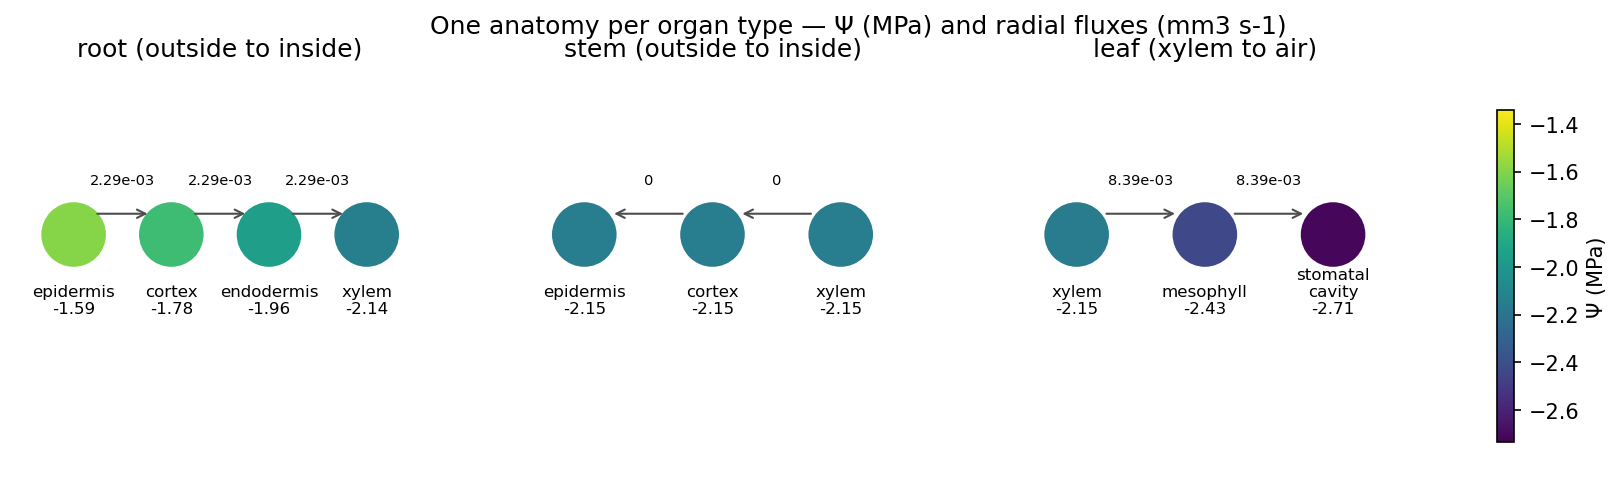
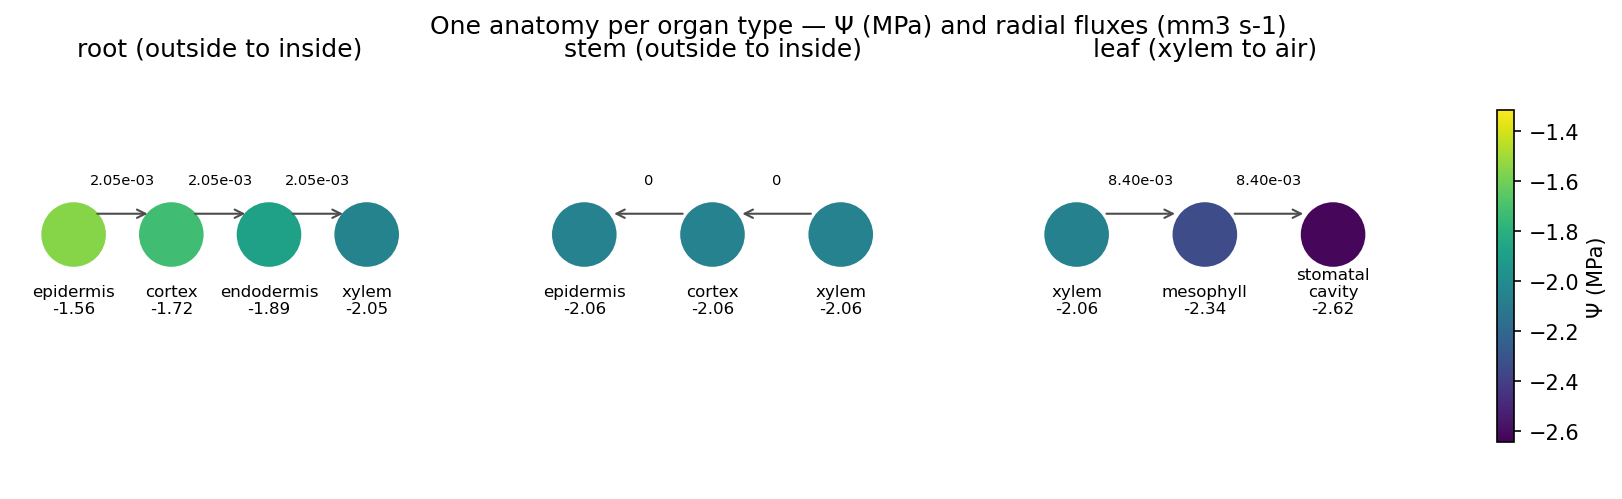
SPAC example: a second lateral on the pivot; the soil ΔΨ behind the SubOrgan and Compartment side views

diff --git a/examples/soil_plant_atmosphere/plotting.py b/examples/soil_plant_atmosphere/plotting.py
@@ -1,8 +1,10 @@
 """
 Plots of the example's DataStructures and of the converged water potentials on them (matplotlib, PNG files).
 
-    plant_segments      the plants at SubOrgan scale (side view, or one planting row): segments coloured by xylem Ψ
-    plant_anatomy       every Compartment of every segment (side view, or one planting row), coloured by Ψ
+    plant_segments      the plants at SubOrgan scale (side view, or one planting row): segments coloured by xylem Ψ,
+                        the soil's ΔΨ (Ψ minus its layer mean) behind them on a diverging scale of its own
+    plant_anatomy       every Compartment of every segment (side view, or one planting row), coloured by Ψ, the
+                        soil's ΔΨ behind them
     anatomy_types       one anatomy per organ type (root, stem, leaf): its tissues, Ψ and the radial fluxes
     soil_slice          a vertical slice of the soil grid (or along a planting row), Ψ coloured, the roots over it;
                         anomaly=True: Ψ minus its layer mean, the roots' depletion without the vertical gradient
@@ -64,19 +66,22 @@ def _norm(*arrays):
     return Normalize(vmin=values.min(), vmax=values.max())
 
 
-def plant_segments(data_structures, path, row=None, title="Xylem Ψ at SubOrgan scale"):
+def plant_segments(data_structures, path, row=None, soil=None, title="Xylem Ψ at SubOrgan scale"):
     """
     Side view of the plants of *data_structures*, each segment coloured by its xylem Ψ: every plant in (x, z), or
-    the plants of planting row *row* in (y, z).
+    the plants of planting row *row* in (y, z). With the *soil* grid, its ΔΨ (Ψ minus its layer mean) behind them,
+    in the plants' plane, on a diverging scale of its own.
     """
-    fig, ax = plt.subplots(figsize=(7, 6))
+    fig, ax = plt.subplots(figsize=(7, 6.6 if soil is not None else 6))
+    if soil is not None:
+        _soil_colorbar(fig, ax, _soil_background(ax, soil, data_structures[0], row))
     selections = [_row(ds, row) for ds in data_structures]
     values = [_xylem_values(ds)[kept] for ds, (kept, _) in zip(data_structures, selections)]
     norm = _norm(*values)
     for ds, value, (kept, h) in zip(data_structures, values, selections):
         start, end, _ = _segments(ds)
         lines = LineCollection(np.stack([start[kept][:, [h, 2]], end[kept][:, [h, 2]]], axis=1), cmap="viridis",
-                               norm=norm, linewidths=3)
+                               norm=norm, linewidths=3, zorder=2)
         lines.set_array(value)
         ax.add_collection(lines)
     ax.axhline(0., color="saddlebrown", linewidth=1)
@@ -103,8 +108,11 @@ def _compartment_positions(ds, h=0, spread=0.004):
     return middle[owner][:, [h, 2]] + spread * depth[:, None] * normal[owner]
 
 
-def plant_anatomy(ds, path, row=None, title="Ψ of every Compartment"):
-    """Every Compartment (side view, of planting row *row* when given) with its edges, coloured by Ψ."""
+def plant_anatomy(ds, path, row=None, soil=None, title="Ψ of every Compartment"):
+    """
+    Every Compartment (side view, of planting row *row* when given) with its edges, coloured by Ψ; with the *soil*
+    grid, its ΔΨ behind them (as in plant_segments).
+    """
     kept_segments, h = _row(ds, row)
     kept = kept_segments[np.asarray(ds.owner("SubOrgan"))]
     position = _compartment_positions(ds, h)
@@ -112,8 +120,11 @@ def plant_anatomy(ds, path, row=None, title="Ψ of every Compartment"):
     edges = np.array([[index[int(a)], index[int(b)]] for a, b in ds.edges()])
     edges = edges[kept[edges[:, 0]] & kept[edges[:, 1]]]
     psi = np.asarray(ds.get("water_potential"))
-    fig, ax = plt.subplots(figsize=(8, 7))
-    ax.add_collection(LineCollection(position[edges], colors="0.6", linewidths=0.6))
+    fig, ax = plt.subplots(figsize=(8, 7.6 if soil is not None else 7))
+    if soil is not None:
+        _soil_colorbar(fig, ax, _soil_background(ax, soil, ds, row))
+    ax.add_collection(LineCollection(position[edges], colors="0.4" if soil is not None else "0.6", linewidths=0.6,
+                                     zorder=2))
     points = ax.scatter(position[kept, 0], position[kept, 1], c=psi[kept], s=10, cmap="viridis", zorder=3)
     ax.axhline(0., color="saddlebrown", linewidth=1)
     ax.set_aspect("equal")
@@ -165,6 +176,42 @@ def anatomy_types(ds, path, title="One anatomy per organ type"):
     plt.close(fig)
 
 
+def _soil_plane(grid, plant_ds, psi, y=None, row=None):
+    """
+    The vertical soil slice of *psi* through the plants: along planting row *row* ((y, z), the row's x cell), else
+    the (x, z) slice at *y* (default: the middle). Returns (values (horizontal, depth), h, across, cell, label).
+    """
+    dx = grid.dx
+    if row is not None:
+        rows = np.unique(np.round([plant_ds.mtg.property("x")[int(p)] for p in plant_ds.entity_ids("Plant")], 6))
+        i = int(min(max(rows[row] // dx[0], 0), psi.shape[0] - 1))
+        return psi[i, :, :], 1, 0, i, f"planting row {row}, x cell {i}"
+    j = psi.shape[1] // 2 if y is None else int(min(max(y // dx[1], 0), psi.shape[1] - 1))
+    return psi[:, j, :], 0, 1, j, f"y cell {j}"
+
+
+def soil_anomaly(grid):
+    """The soil's Ψ minus the mean of its layer (over x and y): the roots' depletion, without the vertical gradient."""
+    psi = np.asarray(grid.get("water_potential"))
+    return psi - psi.mean(axis=(0, 1), keepdims=True)
+
+
+def _soil_background(ax, grid, plant_ds, row=None):
+    """ΔΨ of the soil (soil_anomaly) behind a side view, in the plane of the plants, on its own diverging scale."""
+    collar_y = None if row is not None else float(plant_ds.mtg.property("y")[int(plant_ds.entity_ids("Plant")[0])])
+    psi = soil_anomaly(grid)
+    values, h, _, _, _ = _soil_plane(grid, plant_ds, psi, y=collar_y, row=row)
+    bound = float(np.abs(values).max()) or 1.
+    return ax.imshow(values.T, origin="upper", aspect="equal", cmap="RdBu", vmin=-bound, vmax=bound, zorder=0,
+                     extent=(0., values.shape[0] * grid.dx[h], -psi.shape[2] * grid.dx[2], 0.))
+
+
+def _soil_colorbar(fig, ax, image):
+    """The soil ΔΨ scale, horizontal under the side view (the plant's scale being on the right)."""
+    bar = fig.colorbar(image, cax=ax.inset_axes([0., -0.13, 1., 0.025]), orientation="horizontal")
+    bar.set_label("soil ΔΨ: Ψ - layer mean (MPa)")
+
+
 def soil_slice(grid, plant_data_structures, path, y=None, row=None, anomaly=False,
                title="Soil water potential, vertical slice"):
     """
@@ -172,20 +219,11 @@ def soil_slice(grid, plant_data_structures, path, y=None, row=None, anomaly=Fals
     or with *row*, the (y, z) slice through planting row *row*. anomaly=True shows Ψ minus the mean of its layer
     (over x and y), on a colour scale centred on 0: the depletion by the roots, without the vertical gradient.
     """
-    psi = np.asarray(grid.get("water_potential"))
+    psi = soil_anomaly(grid) if anomaly else np.asarray(grid.get("water_potential"))
     if anomaly:
-        psi = psi - psi.mean(axis=(0, 1), keepdims=True)
         title = "Soil Ψ minus its layer mean"
     dx = grid.dx
-    if row is not None:
-        ds = plant_data_structures[0]
-        rows = np.unique(np.round([ds.mtg.property("x")[int(p)] for p in ds.entity_ids("Plant")], 6))
-        i = int(min(max(rows[row] // dx[0], 0), psi.shape[0] - 1))
-        values, h, across, label = psi[i, :, :], 1, 0, f"planting row {row}, x cell {i}"
-    else:
-        j = psi.shape[1] // 2 if y is None else int(min(max(y // dx[1], 0), psi.shape[1] - 1))
-        values, h, across, label, i = psi[:, j, :], 0, 1, None, j
-        label = f"y cell {j}"
+    values, h, across, i, label = _soil_plane(grid, plant_data_structures[0], psi, y=y, row=row)
     fig, ax = plt.subplots(figsize=(7, 5))
     if anomaly:
         bound = float(np.abs(values).max()) or 1.

diff --git a/examples/soil_plant_atmosphere/seedling.py b/examples/soil_plant_atmosphere/seedling.py
@@ -32,14 +32,16 @@ def _tissue_label(labels, tissue):
 def build_seedling(g, plant, parameters):
     """
     The seedling of *plant*: a shoot of n_phytomers (a stem element and a leaf of n_leaf_elements each) and
-    n_root_axes first-order roots from the collar, each with a lateral: a nearly vertical pivot, and others bending
+    n_root_axes first-order roots from the collar: a nearly vertical pivot with two laterals (on its segments
+    pivot_lateral_ranks, on alternate sides), and others with one lateral, bending
     from emergence_angle below the horizontal towards the vertical (gravitropism, per segment); every segment with
     its anatomy.
     """
     p = dict(n_phytomers=3, n_leaf_elements=3, n_root_axes=3, n_root_segments=6, n_lateral_segments=4,
              stem_length=0.02, leaf_length=0.03, leaf_width=0.005, root_length=0.025, lateral_length=0.02,
              emergence_angle=15., gravitropism=0.35, lateral_gravitropism=0.08, tortuosity=0.08,
-             pivot_emergence_angle=80., pivot_gravitropism=0.8, n_pivot_segments=8)
+             pivot_emergence_angle=80., pivot_gravitropism=0.8, n_pivot_segments=8,
+             pivot_lateral_ranks=(2, 5))
     p.update({key: value for key, value in parameters.items() if key in p})
     s, labels = g.scales, g.labels
     x0, y0, z0 = (float(g.property(name)[plant]) for name in ("x", "y", "z"))
@@ -82,7 +84,7 @@ def build_seedling(g, plant, parameters):
                             (np.cos(azimuth), np.sin(azimuth), 0.6 - 0.4 * element))
             parent = vid
 
-    # roots: three first-order roots from the collar, each with one lateral. The first is a pivot, nearly vertical
+    # roots: three first-order roots from the collar. The first is a pivot, nearly vertical, with two laterals
     # (pivot_emergence_angle, pivot_gravitropism, n_pivot_segments); the others start emergence_angle (degrees) below
     # the horizontal and bend towards the vertical segment after segment, their direction pulled down by the
     # gravitropism coefficient. All have a small random tortuosity (reproducible per plant).
@@ -115,20 +117,23 @@ def build_seedling(g, plant, parameters):
             direction = tropism(direction, gravitropism)
             parent = vid
             axis_segments.append(vid)
-        bearer = axis_segments[min(2, len(axis_segments) - 1)]
-        lateral = g.add_child(organ, **PropsConfig(scale=s.Organ, edge_type='+', label=labels.Organ.RootInternode))
-        side = azimuth + np.pi / 2. + rng.normal(0., 0.3)
-        direction = np.array([np.cos(side), np.sin(side), -0.2])
-        direction /= np.linalg.norm(direction)
-        start, parent = segments[bearer][3], bearer
-        for rank in range(int(p["n_lateral_segments"])):
-            props = PropsConfig(scale=s.SubOrgan, edge_type='+' if rank == 0 else '<',
-                                label=labels.SubOrgan.RootSegment)
-            vid = (g.add_component_with_topo(lateral, parent, **props) if rank == 0
-                   else g.add_child(parent, **props))
-            start = segment(vid, ROOT, p["lateral_length"], start, direction)
-            direction = tropism(direction, p["lateral_gravitropism"])
-            parent = vid
+        bearers = p["pivot_lateral_ranks"] if pivot else (2,)
+        for number, bearer_rank in enumerate(bearers):              # laterals on alternate sides
+            bearer = axis_segments[min(int(bearer_rank), len(axis_segments) - 1)]
+            lateral = g.add_child(organ, **PropsConfig(scale=s.Organ, edge_type='+',
+                                                       label=labels.Organ.RootInternode))
+            side = azimuth + np.pi / 2. + number * np.pi + rng.normal(0., 0.3)
+            direction = np.array([np.cos(side), np.sin(side), -0.2])
+            direction /= np.linalg.norm(direction)
+            start, parent = segments[bearer][3], bearer
+            for rank in range(int(p["n_lateral_segments"])):
+                props = PropsConfig(scale=s.SubOrgan, edge_type='+' if rank == 0 else '<',
+                                    label=labels.SubOrgan.RootSegment)
+                vid = (g.add_component_with_topo(lateral, parent, **props) if rank == 0
+                       else g.add_child(parent, **props))
+                start = segment(vid, ROOT, p["lateral_length"], start, direction)
+                direction = tropism(direction, p["lateral_gravitropism"])
+                parent = vid
 
     # segment properties, anatomies and axial junctions
     for name in ("length", "x1", "x2", "y1", "y2", "z1", "z2"):

diff --git a/examples/soil_plant_atmosphere/one_plant.py b/examples/soil_plant_atmosphere/one_plant.py
@@ -31,8 +31,8 @@ def plots(built, folder, row=None):
     os.makedirs(folder, exist_ok=True)
     plants = [population.data_structure for population in built.populations]
     soil = next(model for model in built.environment if isinstance(model, Soil)).grid
-    plotting.plant_segments(plants, os.path.join(folder, "plant_segments.png"), row=row)
-    plotting.plant_anatomy(plants[0], os.path.join(folder, "plant_anatomy.png"), row=row)
+    plotting.plant_segments(plants, os.path.join(folder, "plant_segments.png"), row=row, soil=soil)
+    plotting.plant_anatomy(plants[0], os.path.join(folder, "plant_anatomy.png"), row=row, soil=soil)
     plotting.anatomy_types(plants[0], os.path.join(folder, "anatomy_types.png"))
     plotting.soil_slice(soil, plants, os.path.join(folder, "soil_slice.png"), row=row)
     plotting.soil_slice(soil, plants, os.path.join(folder, "soil_slice_anomaly.png"), row=row, anomaly=True)

diff --git a/examples/soil_plant_atmosphere/README.md b/examples/soil_plant_atmosphere/README.md
@@ -6,7 +6,7 @@ dry atmosphere. Every part shows a feature of metafspm:
 | file | what it shows |
 |---|---|
 | `components.py` | **`PlantWaterTransport`** and **`SoilWaterTransport`**, two `FunctionalComponent`s, each declaring its own variables and graph system: a node balance, an edge law given explicitly (j = k ΔΨ), and every boundary written as an equation (`@boundary_condition`): the exchange with the air, k_vap (Ψ_air − Ψ), each selecting its nodes with explicit `filters=` key / values. The plant's are at the Compartment and Connection scales, read from and written to the MTG; it adds the root–soil exchange, an equation of the coupled soil Ψ (`@boundary_condition`). The soil's are at cell and edge locations; it adds the water table (Dirichlet, Ψ − Ψ_table) and the plants' uptake. `@graph_output`s give the uptake and the evaporation. |
-| `seedling.py` | **The seedling generator**, standing for the structural models (growth, anatomy) a real simulation would couple: the architecture at every scale (three first-order roots from the collar, each with a lateral: a nearly vertical pivot, and two roots bending towards the vertical with a gravitropism coefficient), the anatomies and the axial junctions, with the codes the components read. |
+| `seedling.py` | **The seedling generator**, standing for the structural models (growth, anatomy) a real simulation would couple: the architecture at every scale (three first-order roots from the collar: a nearly vertical pivot with two laterals on alternate sides, and two roots bending towards the vertical with a gravitropism coefficient, with one lateral each), the anatomies and the axial junctions, with the codes the components read. |
 | | **`SeedlingStructure`** (in `components.py`), a `StructuralComponent`: `initiate_plant` builds each seedling (with `seedling.py`) at every scale (Plant → Axis → GrowthUnit → Phytomer → Organ → SubOrgan) with an anatomy per segment (root: epidermis, cortex, endodermis, xylem; stem: epidermis, cortex, xylem; leaf: xylem, mesophyll, stomatal cavity) and the axial xylem junctions, then computes the conductances from the structure: k = k_s · L on radial edges, k = k_axial / L on axial ones. **`SoilStructure`** does the same for the soil grid (k = K · A / d on the faces, K varying between voxels). |
 | | **The air**, a constant input: Ψ_air = (RT/V_w) ln RH at 50 % and 20 °C (about −93.9 MPa), and the vapour factor that turns a vapour conductance into a liquid one where water evaporates (the liquid–vapour step, linearised). |
 | `models.py` | **Models and translators.** The plant population model (`SeedlingWater`: initiators, anatomy mode) and the soil environment model. Translators inside a DataStructure (k → conductance), and across DataStructures (soil Ψ → root epidermis, uptake → soil cells). A `CrossMapping` of the root surface only (`mask=`). A `stop_when` condition on the change of Ψ between steps. |
@@ -27,9 +27,10 @@ Volumes in mm³ keep the solves' residuals well above the solver's absolute tole
 
 ## One plant
 
-The scene converges in six steps (largest change of Ψ: 7.9e-01, 1.1e-02, 3.1e-04, 1.3e-05, 6.5e-07 MPa). Transpiration
+The scene converges in seven steps (largest change of Ψ: 7.8e-01, 1.2e-02, 4.6e-04, 2.6e-05, 1.6e-06, 9.7e-08 MPa). Transpiration
 (0.076 mm³ s⁻¹) equals the root uptake and the water taken from the soil; the water table supplies it and the soil
-evaporation.
+evaporation. The side views draw the soil's ΔΨ (Ψ minus its layer mean, red where drier) behind the plant, on a
+scale of its own, under the plot; the plant keeps its Ψ scale on the right.
 
 ![plants at SubOrgan scale](figures/one_plant/plant_segments.png)
 ![the plant with its anatomies](figures/one_plant/plant_anatomy.png)
@@ -44,7 +45,7 @@ mean shows where the roots deplete the soil:
 
 ### Upscaling, step by step
 
-The solved potentials of the 164 Compartments are averaged into the 44 segments, then the 12 organs, the 6
+The solved potentials of the 180 Compartments are averaged into the 48 segments, then the 13 organs, the 6
 phytomers, the 4 growth units, the 4 axes and the plant: every scale of the MPG (`upscaling.py`). Each step is one
 `derive`. The figure draws the graph of each scale, side by side at the same spacing: its entities as nodes, coloured by their value, and the links
 between them (an edge of the solver graph joining two entities), on one colour scale.
@@ -53,7 +54,7 @@ between them (an edge of the solver graph joining two entities), on one colour s
 
 ## A population
 
-The plants share the soil; their root radial conductances cycle through 0.2, 0.5 and 1.0. Under a dry air
+The plants share the soil; their root radial conductances cycle through 0.4, 0.5 and 0.6. Under a dry air
 (Ψ_air ≈ −94 MPa), the vapour step limits the flow, so transpiration varies little between plants. Their leaf water
 potentials absorb the difference: the least conductive roots give the lowest leaf Ψ.
 

diff --git a/devlog.md b/devlog.md
@@ -2055,3 +2055,5 @@ Per-file counts:
 - **Scenarios applied by the Scene (your question, then go-ahead):** models swallowed `**scenario`. Only numeric plant parameters reached components (through `apply_plant_scenarios`); non-numeric ones and environment parameters were silently dropped, and so were typos. `apply_model_scenario` now sets every entry on the components as a constructor keyword would (checked: the DataStructure value and the dataclass field match a hand-built component), leaving per-plant values to `apply_plant_scenarios`. Model-named arguments and keys read by initiators (recorded during `build_population`) are accepted, anything else raises, and a parameter not stored per plant must be equal across plants. Placed in the Scene rather than `declare_data_and_couple_components`, since plant models need not be `CompositeModel`s. Found: a parameter declared at an MPG scale on a grid is not registered, and its constructor value is ignored. 6 tests, suite 772 passed, example unchanged.
 - **`**scenario` removed from model signatures (your request):** models name only their own arguments (the Scene passes them just those, and applies the rest to the components). Example, test doubles, usage examples, benchmark and the contracts in docs and `scene.py` updated; the legacy migration snippet kept. Suite 772 passed.
 - **Finer soil voxels hung (your report):** at voxel 0.0125 the soil Newton step spent 22 s in SuperLU. The cause is the system of 8192 cell Ψ plus 24320 edge fluxes: cell rows hold only fluxes (7680 zero diagonals), so COLAMD pivoting gave 25.7 M fill-in. The linear step now eliminates edge unknowns whose Jacobian block is diagonal (an exact Schur complement, checked to 1e-13), and other systems use MMD_AT_PLUS_A. Times: 0.0125 m runs in 2.3 s in total (7 steps); 0.00625 m (65k cells) in 100 s, 92 s of which is the direct solve of the cell system (6.6 s each). Results at the default voxel are unchanged. 2 tests, suite 774 passed. Open: an iterative solver for larger grids.
+- **Second lateral on the pivot (your request):** `pivot_lateral_ranks=(2, 5)`, on alternate sides; 48 segments and 180 Compartments per plant. Converges in 7 steps (one plant) and 10 (population); balances closed.
+- **Soil ΔΨ behind the side views (your request):** `plant_segments` and `plant_anatomy` take `soil=`. The soil's Ψ minus its layer mean, in the plants' plane (the planting row, or the collar's y), is drawn behind the architecture on a diverging RdBu scale centred on 0 (colour bar under the plot), with the plant on viridis (right). The slice selection is shared with `soil_slice`. Figures and README regenerated; README counts (and the stale radial-k values) corrected.
